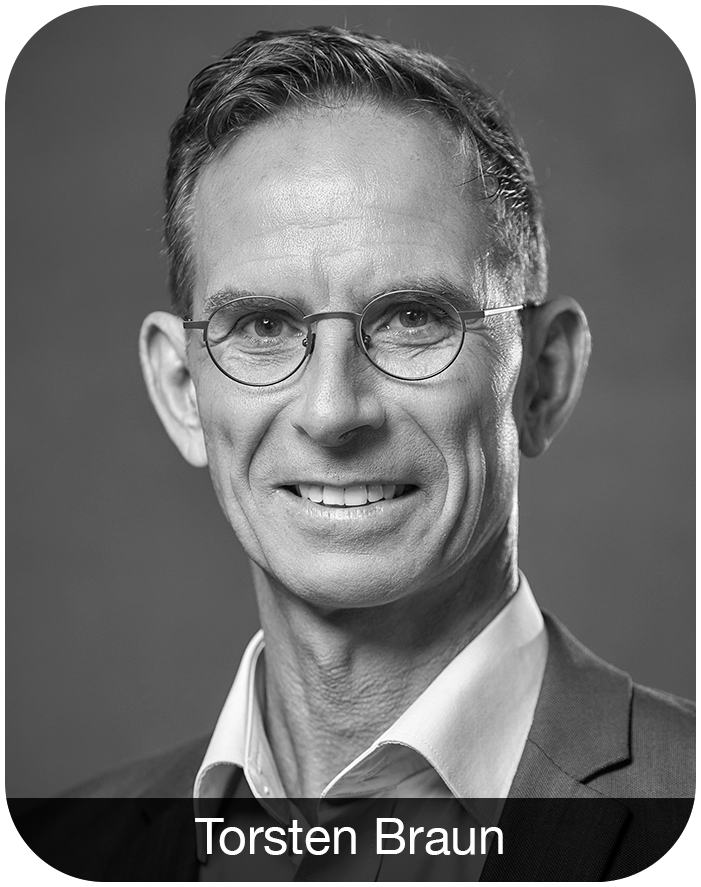
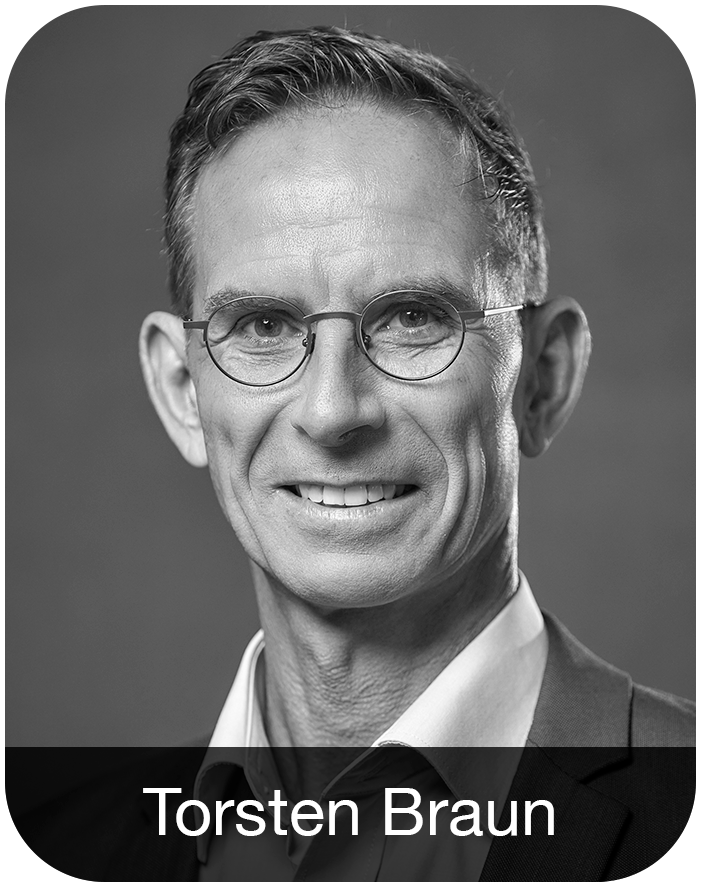
Update

Changed region(s): [[0.0, 0.8219, 1.0, 0.9741]]

diff --git a/index.html b/index.html
@@ -57,31 +57,27 @@
 									by offering a comprehensive dataset and evaluation framework<br />
 									that captures real-world environments.</p>
 							</header>
-							Easy access links
 						</div>
 					</section>
 
 				<!-- Two -->
 					<section id="two" class="wrapper alt style2">
 						<section class="spotlight">
-							<div class="image"><img src="images/pic01.jpg" alt="" /></div><div class="content">
-								<h2>Magna primis lobortis<br />
-								sed ullamcorper</h2>
-								<p>Aliquam ut ex ut augue consectetur interdum. Donec hendrerit imperdiet. Mauris eleifend fringilla nullam aenean mi ligula.</p>
+							<div class="image"><img src="images/methodology_banner.png" alt="Methodology" /></div><div class="content">
+								<h2>Methodology</h2>
+								<p>The experimental design and procedures used to produce the dataset, including node deployment and data collection.</p>
 							</div>
 						</section>
 						<section class="spotlight">
-							<div class="image"><img src="images/pic02.jpg" alt="" /></div><div class="content">
-								<h2>Tortor dolore feugiat<br />
-								elementum magna</h2>
-								<p>Aliquam ut ex ut augue consectetur interdum. Donec hendrerit imperdiet. Mauris eleifend fringilla nullam aenean mi ligula.</p>
+							<div class="image"><img src="images/table.jpg" alt="Dataset" /></div><div class="content">
+								<h2>Dataset</h2>
+								<p>Full presentation of the dataset structure, including statistical tables, with instructions on accessing and interpreting the data.</p>
 							</div>
 						</section>
 						<section class="spotlight">
-							<div class="image"><img src="images/pic03.jpg" alt="" /></div><div class="content">
-								<h2>Augue eleifend aliquet<br />
-								sed condimentum</h2>
-								<p>Aliquam ut ex ut augue consectetur interdum. Donec hendrerit imperdiet. Mauris eleifend fringilla nullam aenean mi ligula.</p>
+							<div class="image"><img src="images/accuracy.jpg" alt="Evaluation Framework" /></div><div class="content">
+								<h2>Evaluation Framework</h2>
+								<p>Instructions for evaluating positioning methods and developing ranging models using our measurements, including how to quantify performance for comparisons.</p>
 							</div>
 						</section>
 					</section>
@@ -91,8 +87,7 @@
 						<div class="inner">
 							<header class="major">
 								<h2>TWR-Cloud-Bern Dataset at a Glance</h2>
-								<p>Aliquam ut ex ut augue consectetur interdum. Donec amet imperdiet eleifend<br />
-								fringilla tincidunt. Nullam dui leo Aenean mi ligula, rhoncus ullamcorper.</p>
+								<p>A snapshot with key details about the experimental setup, data collection process, and dataset structure.</p>
 							</header>
 							<ul class="features">
 								<li>
@@ -117,7 +112,7 @@
 								</li>
 								<li>
 									<h2>Data Structure</h2>
-									<p>Organized in readily accessible format with comprehensive metadata.</p>
+									<p>Organized into pandas DataFrames and offered in pickle format for direct use in Python.</p>
 								</li>
 							</ul>
 						</div>
@@ -135,32 +130,17 @@
 						</div>
 						<div class="image-container" style="flex: 1; display: flex; justify-content: flex-start; gap: 20px;">
 							<div style="text-align: center;">
-								<img src="images/authors/Xenakis.png" alt="Dimitrios Xenakis" style="width: auto; height: 250px;">
+								<img src="images/authors/Xenakis.png" alt="Dimitrios Xenakis" style="width: auto; height: 200px;">
 							</div>
 							<div style="text-align: center;">
-								<img src="images/authors/DiMaio.png" alt="Antonio Di Maio" style="width: auto; height: 250px;">
+								<img src="images/authors/DiMaio.png" alt="Antonio Di Maio" style="width: auto; height: 200px;">
 							</div>
 							<div style="text-align: center;">
-								<img src="images/authors/Braun.png" alt="Torsten Braun" style="width: auto; height: 250px;">
+								<img src="images/authors/Braun.png" alt="Torsten Braun" style="width: auto; height: 200px;">
 							</div>
 						</div>
 					</div>
 				</section>
-
-				<!-- Footer -->
-					<footer id="footer">
-						<ul class="icons">
-							<li><a href="#" class="icon brands fa-twitter"><span class="label">Twitter</span></a></li>
-							<li><a href="#" class="icon brands fa-facebook-f"><span class="label">Facebook</span></a></li>
-							<li><a href="#" class="icon brands fa-instagram"><span class="label">Instagram</span></a></li>
-							<li><a href="#" class="icon brands fa-dribbble"><span class="label">Dribbble</span></a></li>
-							<li><a href="#" class="icon solid fa-envelope"><span class="label">Email</span></a></li>
-						</ul>
-						<ul class="copyright">
-							<li>&copy; Untitled</li>
-						</ul>
-					</footer>
-
 			</div>
 
 		<!-- Scripts -->

diff --git a/assets/css/main.css b/assets/css/main.css
@@ -22,6 +22,8 @@ article, aside, details, figcaption, figure,
 footer, header, hgroup, menu, nav, section {
 	display: block;}
 
+
+
 body {
 	line-height: 1;
 }
@@ -2547,7 +2549,7 @@ input, select, textarea {
 	}
 
 		.features li {
-			padding: 4em 4em 2em 6em ;
+			padding: 2em 2em 2em 2em ;
 			display: block;
 			position: relative;
 			text-align: left;
@@ -2669,7 +2671,7 @@ input, select, textarea {
 			-ms-order: 1;
 			order: 1;
 			border-radius: 0;
-			width: 40%;
+			width: 45%;
 		}
 
 			.spotlight .image img {
@@ -2780,7 +2782,7 @@ input, select, textarea {
 /* Wrapper */
 
 	.wrapper {
-		padding: 6em 0 4em 0 ;
+		padding: 4em 0 1em 0 ;
 	}
 
 		.wrapper > .inner {
@@ -3131,7 +3133,7 @@ input, select, textarea {
 			}
 
 		.wrapper.style4 {
-			background-color: transparent;
+			background-color: rgba(0, 0, 0, 0.0);
 		}
 
 		.wrapper.style5 {
